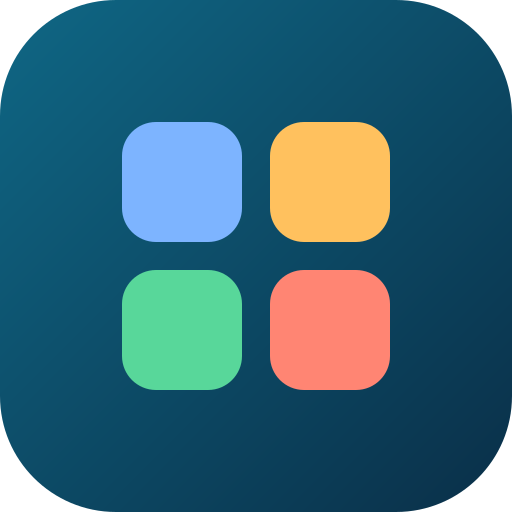
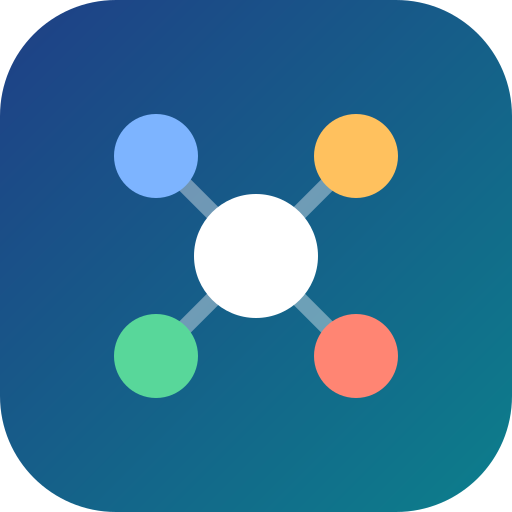
Yeni merkez-düğüm simgesi, sürüm 1.4
Claude-Session: https://claude.ai/code/session_014TdjtdK1SLbnjngQ888BRj

diff --git a/index.html b/index.html
@@ -158,7 +158,7 @@ footer { text-align: center; font-size: 12px; color: var(--muted); display: flex
 
 <script>
 (function () {
-  var VERSION = "1.3"; // her değişiklikte artır: 1.4, 1.5 ...
+  var VERSION = "1.4"; // her değişiklikte artır: 1.5, 1.6 ...
   if ("serviceWorker" in navigator) { try { navigator.serviceWorker.register("sw.js").catch(function () {}); } catch (e) {} }
   document.getElementById("ver").textContent = "v" + VERSION;
   var U = "https://karadenizmehmet-debug.github.io/";
